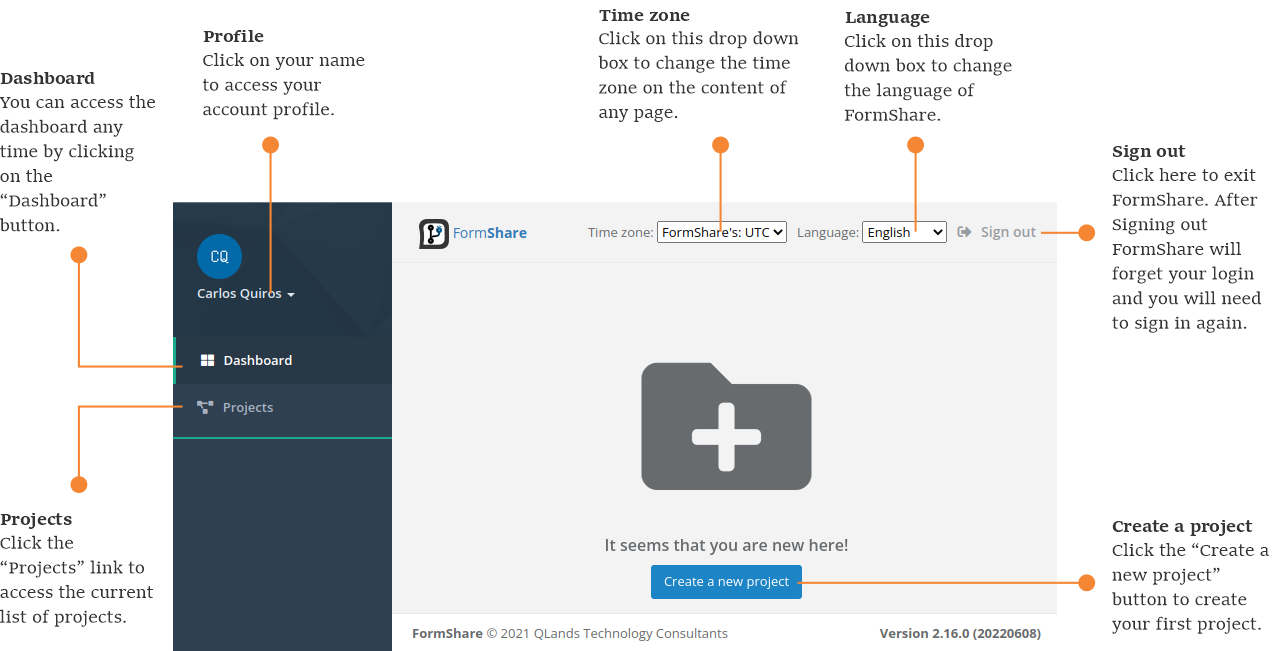
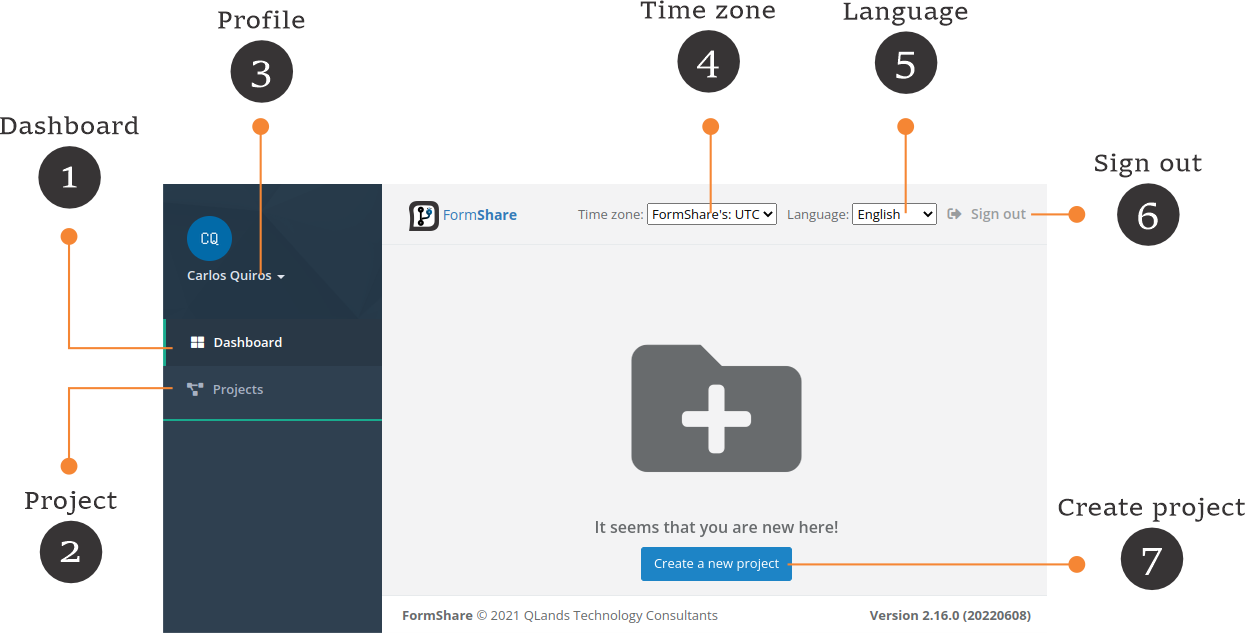
GitBook: [#11] More work on documentation

diff --git a/docs/guides/creating-your-first-task.md b/docs/guides/creating-your-first-task.md
@@ -1,5 +1,24 @@
-# Creating your first task
+# Uploading your first ODK Form
+
+After creating a new project, FormShare will take you to the projects details page. In an empty project, you are directed to upload a new form.
+
+![](../.gitbook/assets/empty\_project\_captions.png)
+
+1. Active project: Click on this link to access the details of the active project.
+2. Collaborators: Click on this link to access the list of collaborators in the <mark style="color:red;">**active**</mark> project.
+3. Assistants: Click on this link to access the list of assistants in the <mark style="color:red;">**active**</mark> project.
+4. Assistant groups: Click on this link to access the list of assistant groups in the <mark style="color:red;">**active**</mark> project.
+5. Edit project: Click on the "Edit Project" button to edit the details of the project.
+6. Delete project: Click on the "Delete Project" button to delete the project and its forms.
+7. Project files: Projects can hold files. For example the data management plans and policies in PDF format. Project files are available to collaborators.
+8. Assistant groups: This tab shows the list of collaborators in the <mark style="color:red;">**current**</mark> project.
+9. Assistants: This tab shows the list of assistant groups in the <mark style="color:red;">**current**</mark> project.
+10. Map: This tab shows the geographical position of each submission in each form of the project.  Each point will be shown with a different color depending on the color of the form.
+11. Collaborators: This tab shows the list of collaborators in the <mark style="color:red;">**current**</mark> project.
+12. Add a new form: Click on the "Add New Form" button to upload a new form.
 
 {% hint style="info" %}
-**Good to know:** your product docs aren't just a reference of all your features! use them to encourage folks to perform certain actions and discover the value in your product.
+Active vs current projects: Active project is the project shown in the dashboard and that is accessible on the left side menu of FormShare. The current project refers to the current project on the screen.
 {% endhint %}
+
+The "Add New Form" button will show the "Upload new form" screen.

diff --git a/docs/guides/creating-your-first-project.md b/docs/guides/creating-your-first-project.md
@@ -4,7 +4,13 @@ Upon registration, FormShare will take you to the Dashboard. The dashboard is th
 
 ![](../.gitbook/assets/empty\_dashboard\_captions.png)
 
-Click on the "Create a new project" button to create a new project. The "Add new project" screen will appear.
+1. **Dashboard:** Click on this link to access the dashboard at any time.
+2. **Projects:** Click on this link to access the current list of projects.
+3. **Profile:** Click on your name to access your profile.
+4. **Time zone:** Pull down this list to change the timezone of the current page.
+5. **Language:** Pull down this list to change the language of the application.
+6. **Sign out:** Click this link to exit FormShare.
+7. **Create project:** Click on the "Create a new project" button to add a new project. The "Add new project" screen will appear.
 
 ![](<../.gitbook/assets/add\_project\_odk (1).png>)
 

diff --git a/docs/SUMMARY.md b/docs/SUMMARY.md
@@ -16,7 +16,8 @@
 * [Collaborators](fundamentals/members.md)
 * [Forms](fundamentals/task-lists.md)
 * [Assistants](fundamentals/tasks.md)
-* [Repositories](fundamentals/repositories.md)
+* [Repositories](fundamentals/repositories/README.md)
+  * [How FormShare stores data?](fundamentals/repositories/how-formshare-stores-data.md)
 * [Partners](fundamentals/partners.md)
 
 ## Data management

diff --git a/docs/fundamentals/repositories/how-formshare-stores-data.md b/docs/fundamentals/repositories/how-formshare-stores-data.md
@@ -1,0 +1,2 @@
+# How FormShare stores data?
+
